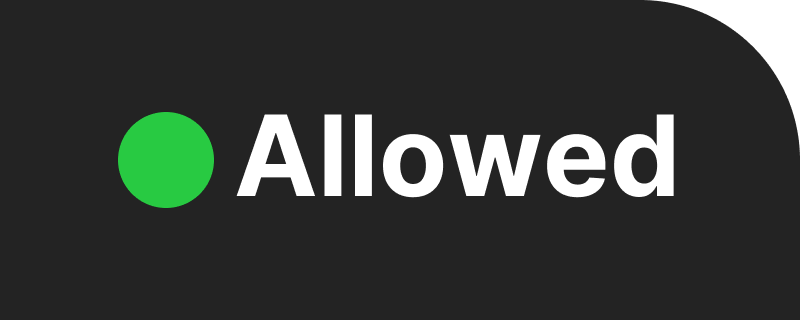
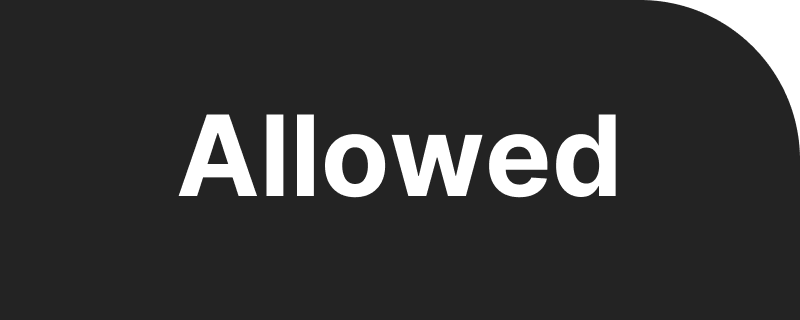
fix : page3-ui-design

Changed region(s): [[0.125, 0.3438, 0.8438, 0.6562]]

diff --git a/components/page3/page3_ui.py b/components/page3/page3_ui.py
@@ -33,14 +33,16 @@ class Ui_Page3(object):
         self.headerWidget.setObjectName(u"headerWidget")
         self.headerWidget.setMinimumSize(QSize(0, 40))
         self.headerWidget.setMaximumSize(QSize(16777215, 40))
-        self.headerWidget.setStyleSheet(u"background-color: #272b4d;\n"
+        self.headerWidget.setStyleSheet(u"margin: 0;\n"
+"padding: 0;\n"
 "color: white;")
         self.blockedButton = QPushButton(self.headerWidget)
         self.blockedButton.setObjectName(u"blockedButton")
         self.blockedButton.setGeometry(QRect(0, 0, 100, 40))
         self.blockedButton.setMinimumSize(QSize(100, 40))
         self.blockedButton.setMaximumSize(QSize(100, 40))
-        self.blockedButton.setStyleSheet(u"border-image: url(\"components/page3/images/blocked_on.png\")")
+        self.blockedButton.setStyleSheet(u"border-image: url(\"components/page3/images/blocked_on.png\");\n"
+"margin: 0;")
         self.blockedButton.setCheckable(True)
         self.blockedButton.setChecked(True)
         self.allowedButton = QPushButton(self.headerWidget)
@@ -48,15 +50,16 @@ class Ui_Page3(object):
         self.allowedButton.setGeometry(QRect(101, 0, 100, 40))
         self.allowedButton.setMinimumSize(QSize(100, 40))
         self.allowedButton.setMaximumSize(QSize(100, 40))
-        self.allowedButton.setStyleSheet(u"border-image: url(\"components/page3/images/allowed_off.png\")")
+        self.allowedButton.setStyleSheet(u"border-image: url(\"components/page3/images/allowed_off.png\");\n"
+"margin: 0;")
         self.allowedButton.setCheckable(True)
         self.allowedButton.setChecked(False)
 
         self.verticalLayout.addWidget(self.headerWidget)
 
         self.tableWidget = QTableWidget(Page3)
-        if (self.tableWidget.columnCount() < 5):
-            self.tableWidget.setColumnCount(5)
+        if (self.tableWidget.columnCount() < 4):
+            self.tableWidget.setColumnCount(4)
         __qtablewidgetitem = QTableWidgetItem()
         self.tableWidget.setHorizontalHeaderItem(0, __qtablewidgetitem)
         __qtablewidgetitem1 = QTableWidgetItem()
@@ -65,20 +68,19 @@ class Ui_Page3(object):
         self.tableWidget.setHorizontalHeaderItem(2, __qtablewidgetitem2)
         __qtablewidgetitem3 = QTableWidgetItem()
         self.tableWidget.setHorizontalHeaderItem(3, __qtablewidgetitem3)
-        __qtablewidgetitem4 = QTableWidgetItem()
-        self.tableWidget.setHorizontalHeaderItem(4, __qtablewidgetitem4)
         self.tableWidget.setObjectName(u"tableWidget")
         self.tableWidget.setStyleSheet(u"QTableWidget {\n"
 "    gridline-color: rgb(50, 55, 100);\n"
-"    background-color: rgb(45, 50, 95);\n"
 "    alternate-background-color: rgb(68, 64, 122);\n"
+"	padding: 0;\n"
+"	margin: 0;\n"
 "}\n"
 "QTableWidget::item {\n"
 "    padding: 5px;\n"
-"    border-bottom: 1px solid rgb(50, 55, 100);\n"
+"    border-bottom: 1px solid rgb(68, 64, 122);\n"
 "}\n"
 "QHeaderView::section {\n"
-"    background-color: rgb(39, 43, 77);\n"
+"    background-color: rgb(68, 64, 122);\n"
 "    color: white;\n"
 "    padding: 5px;\n"
 "    border: none;\n"
@@ -112,7 +114,5 @@ class Ui_Page3(object):
         ___qtablewidgetitem2.setText(QCoreApplication.translate("Page3", u"Date", None));
         ___qtablewidgetitem3 = self.tableWidget.horizontalHeaderItem(3)
         ___qtablewidgetitem3.setText(QCoreApplication.translate("Page3", u"Description", None));
-        ___qtablewidgetitem4 = self.tableWidget.horizontalHeaderItem(4)
-        ___qtablewidgetitem4.setText(QCoreApplication.translate("Page3", u"Description", None));
     # retranslateUi
 

diff --git a/components/page3/Page3.py b/components/page3/Page3.py
@@ -9,6 +9,9 @@ class Page3(QWidget):
 
         self.ui.blockedButton.clicked.connect(self.blocked_clicked)
         self.ui.allowedButton.clicked.connect(self.allowed_clicked)
+
+        self.ui.blockedButton.setFlat(True)
+        self.ui.allowedButton.setFlat(True)
     
     def menuChange(self, menuNum):
         self.ui.blockedButton.setStyleSheet("border-image: url('components/page3/images/blocked_off.png');")
